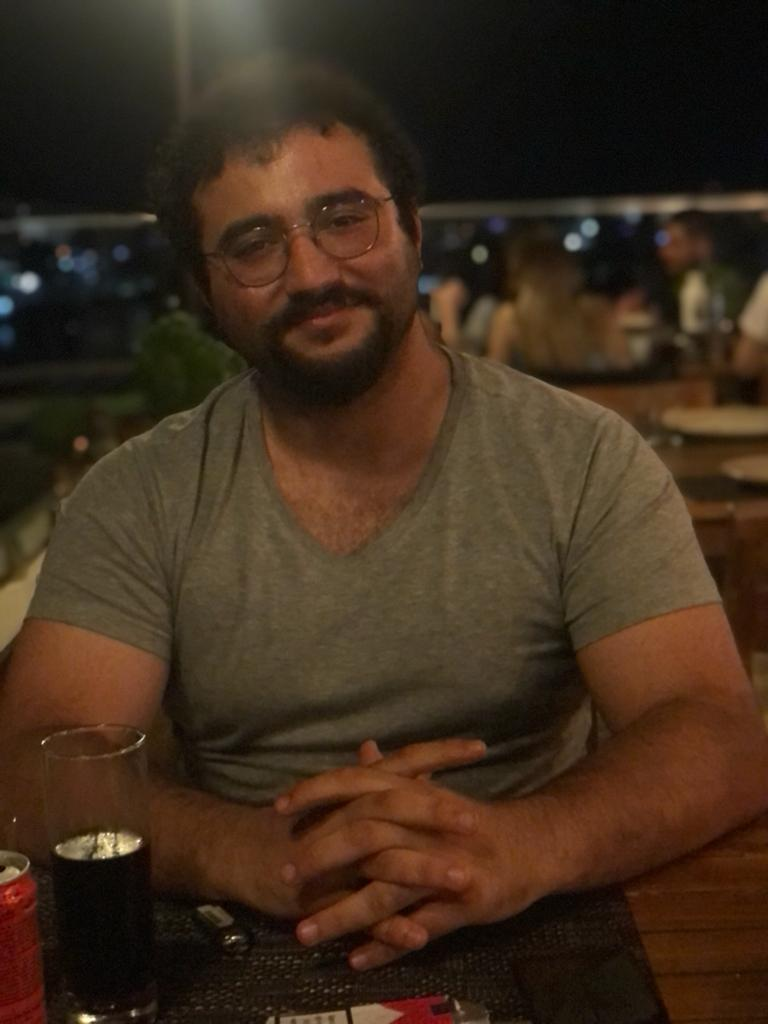
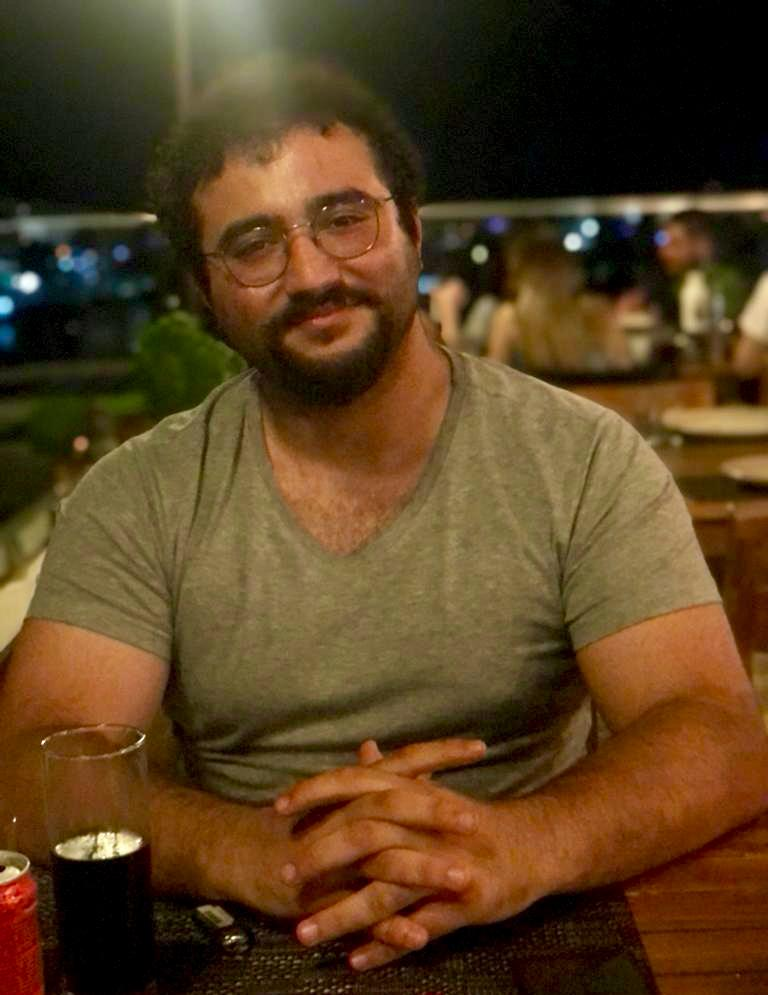
changed document title and minor changes

diff --git a/src/views/HomeView.vue b/src/views/HomeView.vue
@@ -13,7 +13,7 @@
         Additionally, I am intrigued by various other fields such as AI and IoT.<br>
         In my free time, I enjoy team sports, computer games, and board games, though finding time can be challenging :)
       </p>
-      <img src="@/assets/me232.jpg" alt="Yavuz Erbaş">
+      <img src="@/assets/me.jpg" alt="Yavuz Erbaş">
       <p>I earned a B.Sc. in Computer Engineering from the Middle East Technical University in 2023, where I had the opportunity to engage in numerous beneficial courses, including Machine Learning, Computer Graphics, Information and Network Security, Computer Organization, Data Structures, Algorithms, and Object-Oriented Programming Languages.</p>
       <img src="@/assets/meGrad.jpg" alt="Yavuz Erbaş graduation">
       <p>Feel free to explore my YouTube channel for the projects I've created and participated in. Below, you can view one such project, a social media application developed with Flutter, which was part of our graduation project.</p>

diff --git a/src/App.vue b/src/App.vue
@@ -36,6 +36,7 @@ export default {
   mounted() {
     this.isDarkTheme = localStorage.getItem('theme') === 'dark';
     this.applyTheme();
+    document.title = "Yavuz Erbaş";
   },
   methods: {
     toggleTheme() {
